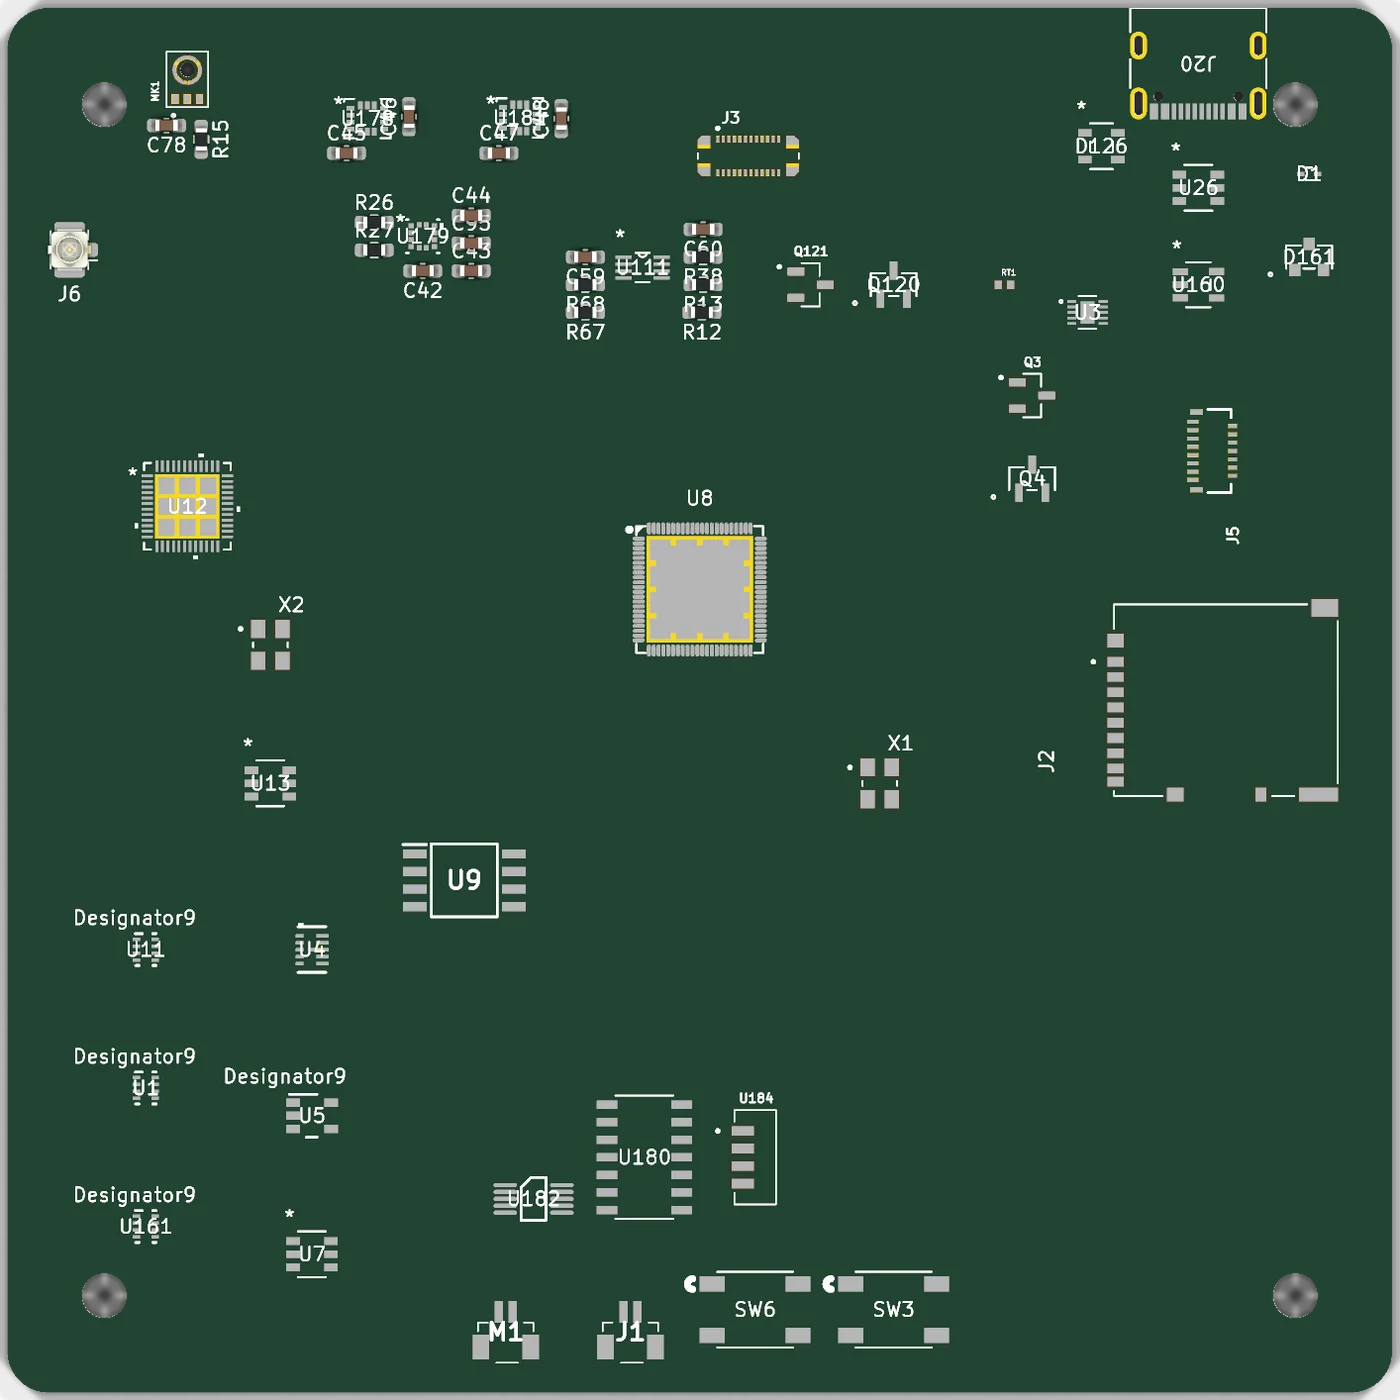
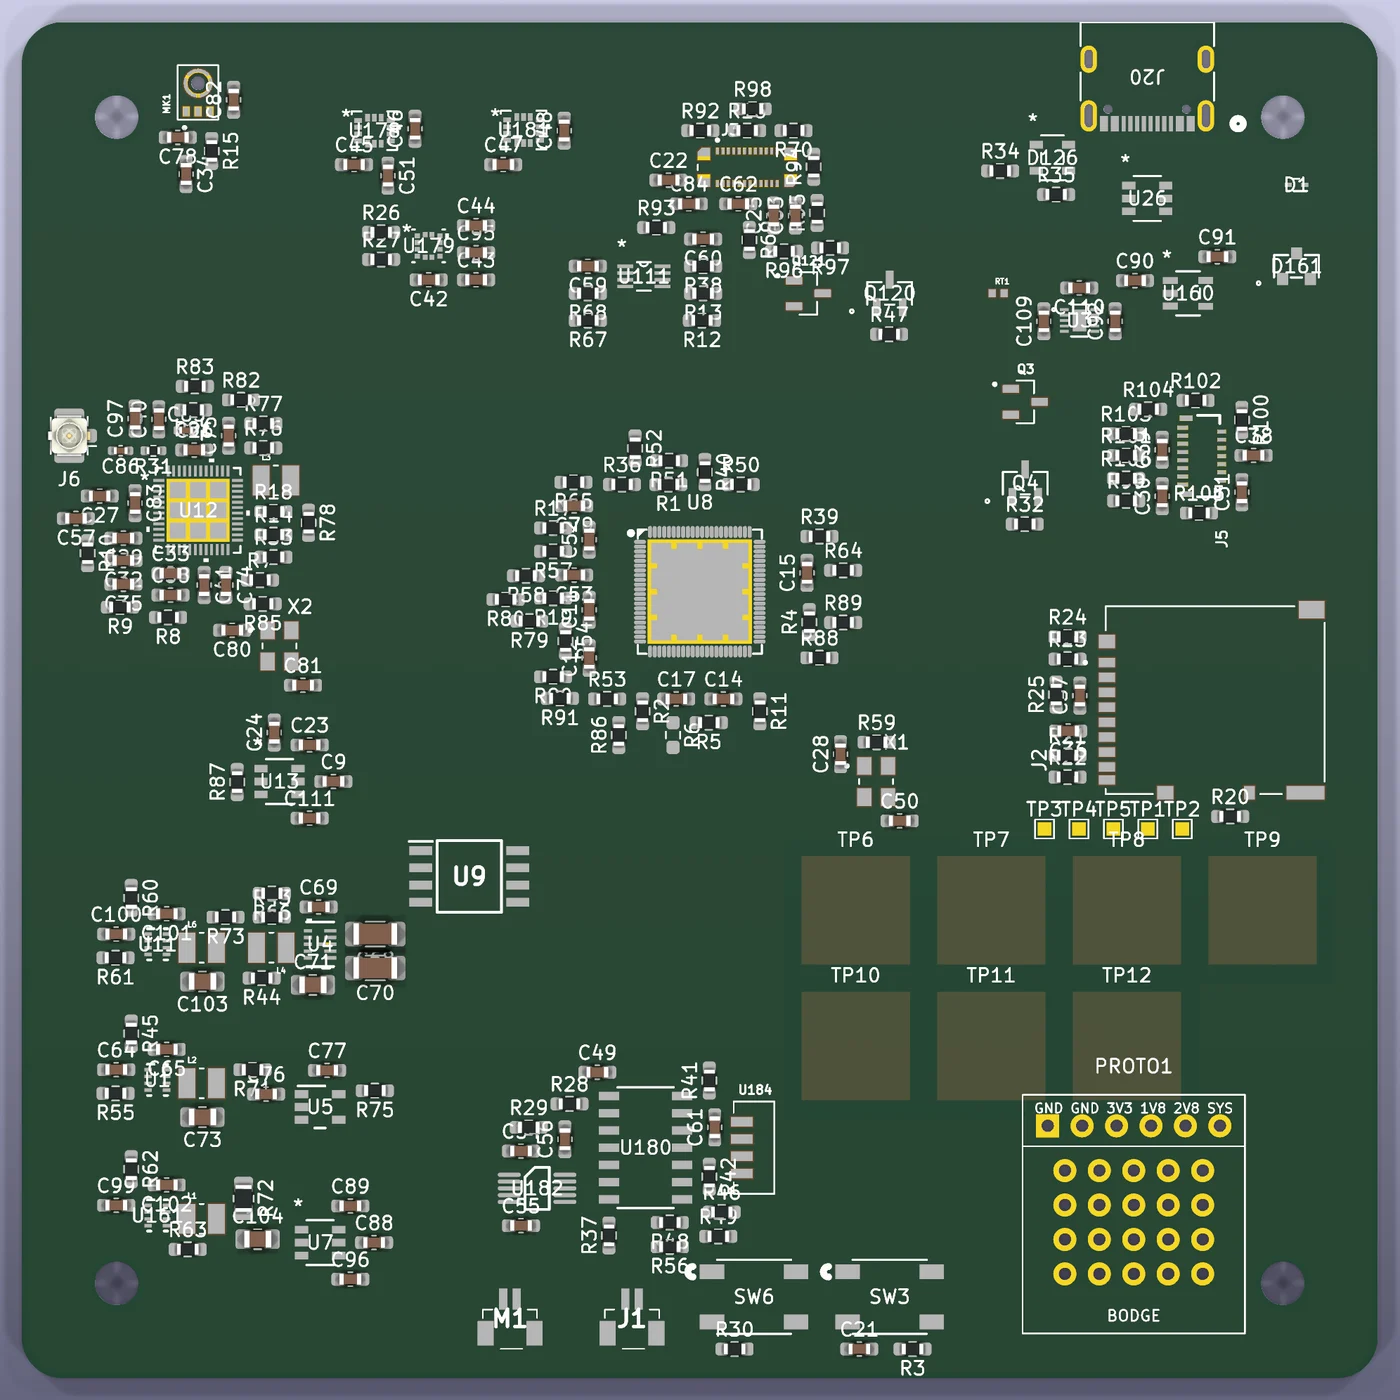
PenGPT: re-render the board images for the updated layout
All 268 parts are now placed to the layout guide, so the old images and the
caption about passives waiting beside the board were out of date. Rendered
fresh from pen_v2.kicad_pcb with KiCad 10. Still unrouted, and the page says so.

diff --git a/src/content.ts b/src/content.ts
@@ -403,11 +403,11 @@ export const content = {
               heading: `Rev 1: a bring-up board, not a pen`,
               paragraphs: [
                 `The first board is intentionally not shaped like a pen. It's a 100 × 100 mm, 4-layer test board with a ground plane and a power plane inside, so every section can be probed and fixed. It's built to be reworked: 16 series jumpers isolate sections, and a bodge area leaves room for fixes, so a wiring mistake costs an afternoon instead of a new board.`,
-                `The fab specs come from measured pad sizes rather than guesses. There are no BGAs, and the processor's 0.35 mm pitch pins escape in a single row, meaning the board can be made at standard 4-layer pricing. All 268 parts are on the board, with the major ones placed by script, and routing is next.`,
+                `The fab specs come from measured pad sizes rather than guesses. There are no BGAs, and the processor's 0.35 mm pitch pins escape in a single row, meaning the board can be made at standard 4-layer pricing. All 268 parts are now placed to the layout guide, the passives grouped around the chips they serve, and routing is next.`,
               ],
               image: `${import.meta.env.BASE_URL}projects/pengpt-board-angle.webp`,
-              imageAlt: `Angled 3D render of the rev-1 board in KiCad: major chips and connectors placed on the board, with rows of small passive parts staged beside it`,
-              imageCaption: `The rev-1 board in layout. The major parts are placed, and the small passives wait beside the board to be placed next to the chips they support. Nothing is routed yet.`,
+              imageAlt: `Angled 3D render of the rev-1 board in KiCad with every part placed: the processor at the centre, the radio and its antenna connector at the left, connectors along the top edge, and test pads with a bodge area at the right`,
+              imageCaption: `The rev-1 board with all 268 parts placed to the layout guide: the processor at the centre, the radio and antenna connector at the left, connectors along the top, and the test pads and bodge area down the right. Nothing is routed yet.`,
             },
             {
               heading: `What's next`,
